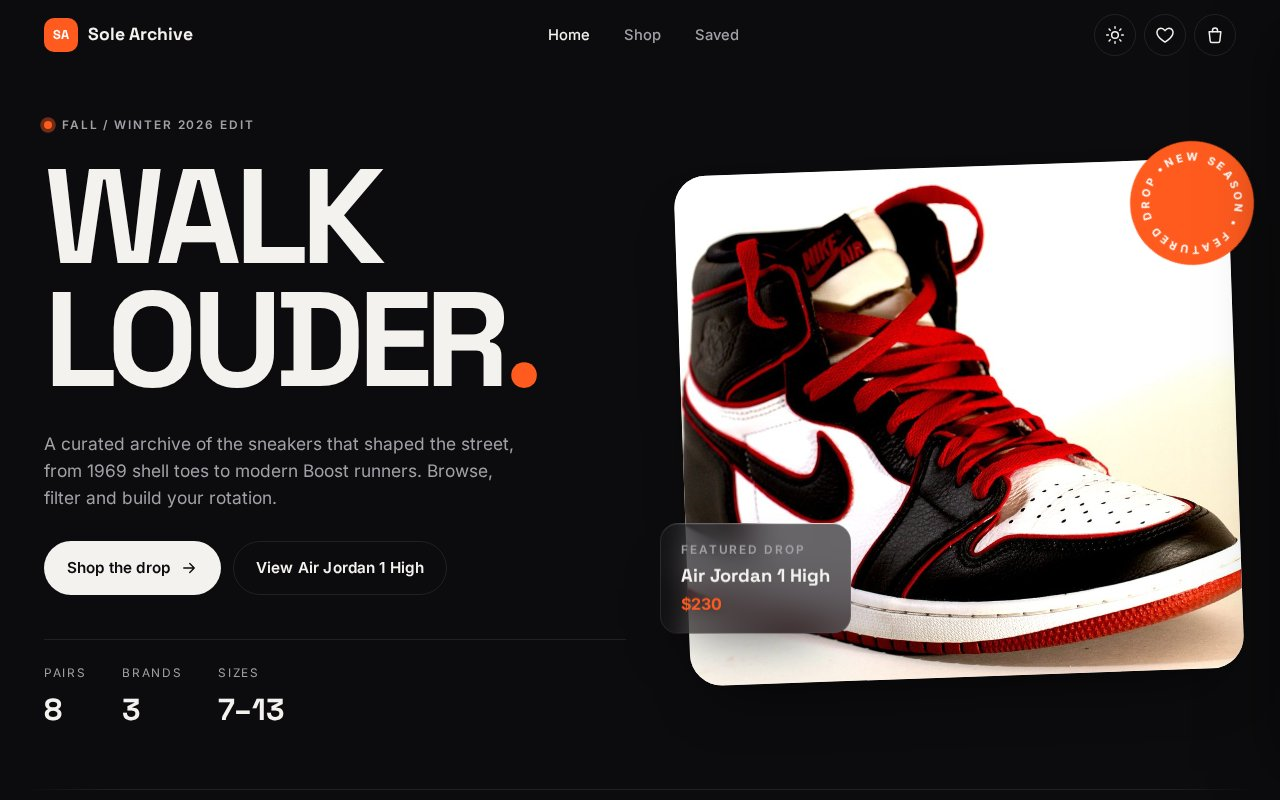
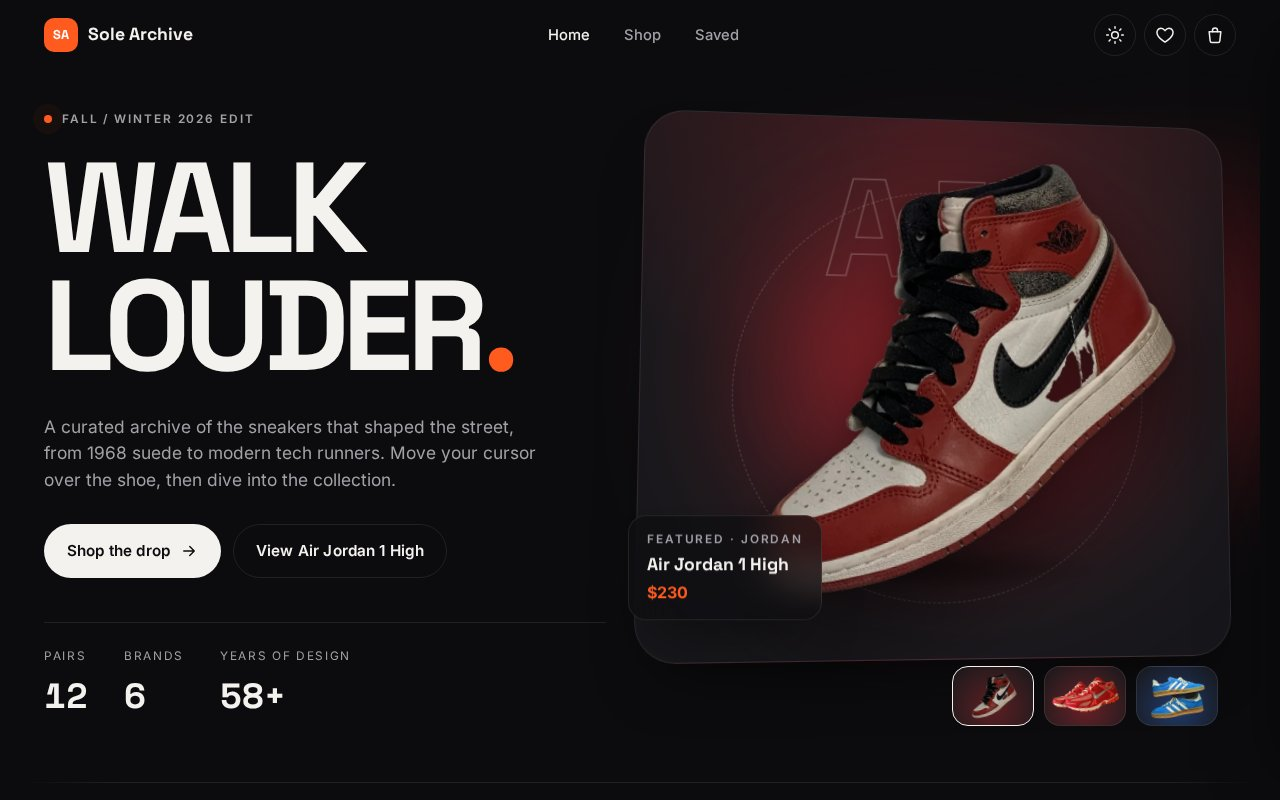
update readme and preview

diff --git a/README.md b/README.md
@@ -1,6 +1,6 @@
 # Sole Archive · Sneaker Showcase
 
-A sneaker storefront built with React. Browse a curated set of Nike, Jordan and Adidas classics, filter and search the collection, open a product page, pick a size, and keep a bag and a saved list that stay put between visits.
+An interactive sneaker storefront built with React and Framer Motion. The hero shoe tilts in 3D and follows your cursor, cards morph into the product page, filters reflow with animation, and you can drag through featured drops, zoom in with a lens, compare two pairs head to head, and keep a bag and saved list between visits.
 
 **Live demo:** https://rajveerrsingh.github.io/sneaker-showcase/
 
@@ -8,25 +8,29 @@ A sneaker storefront built with React. Browse a curated set of Nike, Jordan and 
 
 ---
 
-## Features
+## Highlights
 
-- **Editorial landing page** with large type, a featured drop and a scrolling ticker of every pair
-- **Shop the collection**: brand filter chips, live search by name or colourway, and sorting by price, name or year
-- **Product pages** with a hover zoom image, colourway swatches, a size picker (sold-out sizes disabled), photo credit, previous / next links and related sneakers
-- **Bag and favourites** in a slide-out drawer, with quantities and a subtotal, saved to `localStorage`
-- **Dark and light themes** that follow your system setting and remember your choice
-- **Smooth motion**: page transitions, scroll reveals, card hover lift and image zoom (turned off for users who prefer reduced motion)
-- **Empty states** for no search results, an empty bag, no saved pairs and unknown pages
-- **Responsive and accessible**: works from 360px phones up, keyboard friendly, skip link, visible focus rings, alt text on every image, ARIA labels on icon buttons, and focus kept inside the drawer while it is open
+- **3D tilt hero**: the featured shoe, its colour glow and the outlined model name move at different depths as you move the cursor. It rotates through three featured pairs, and you can pick one from the thumbnails.
+- **Shared element transitions**: the shoe on a product card animates into place on the product page
+- **Animated filtering**: brand chips with a sliding pill, live search and sorting, and the grid reflows smoothly (Framer Motion `layout` + `AnimatePresence`)
+- **Draggable featured rail** with arrow buttons and keyboard support
+- **Next drop countdown**: a live demo timer to the next Saturday 10:00 release
+- **Product page**: a hover zoom lens, studio cut-out or original photo views, an animated size picker, colourway swatches, photo credit, previous/next links and related pairs
+- **Compare mode**: pick any two pairs and open a head to head modal with price, year, colourway and stock
+- **Bag and favourites** in a slide-out drawer, saved to `localStorage`, with animated toasts
+- **Little touches**: magnetic buttons, count-up stats, colour-matched glows behind every shoe, skeleton shimmer while images load, scroll reveals
+- **Dark and light themes** that follow your system and remember your choice
+- **Accessible**: keyboard friendly, skip link, focus rings, alt text, ARIA labels, focus kept in dialogs, and all motion respects `prefers-reduced-motion`
+- **Responsive** from small phones up
 
 Prices and stock are demo data. Nothing is for sale.
 
 ## Tech stack
 
-- **React 19** with hooks and Context for the bag, favourites and theme
+- **React 19** with hooks and Context (bag, favourites, compare, theme)
+- **Framer Motion 11** for layout animations, shared transitions, springs and gestures
 - **React Router 7** (`HashRouter`, so deep links work on GitHub Pages)
-- **Plain CSS** with custom properties for theming, no UI framework
-- **IntersectionObserver** for scroll reveal animations
+- **Plain CSS** with custom properties and `color-mix()` for theming, no UI framework
 - **Google Fonts**: Space Grotesk and Inter
 - **GitHub Pages** for hosting
 
@@ -34,12 +38,12 @@ Prices and stock are demo data. Nothing is for sale.
 
 ```
 src/
-  components/   Navbar, Footer, Drawer, Toast, SneakerCard, SneakerImage, Icons
+  components/   Hero, Carousel, Countdown, Compare, SneakerCard, SneakerImage,
+                Magnetic, Counter, Reveal, Navbar, Footer, Drawer, Toast, Icons
   pages/        Home, Detail, Saved, NotFound
-  hooks/        useReveal (scroll animations)
   data/         sneakers.js (demo catalogue)
-  store.js      bag, favourites and theme state (persisted)
-public/images/  all product photos, served locally
+  store.js      bag, favourites, compare and theme state
+public/images/  studio cut-outs (.webp) and original photos (photo/*.jpg)
 ```
 
 ## Run it locally
@@ -63,14 +67,24 @@ Then push the contents of the `build` folder to the `gh-pages` branch.
 
 ## Image credits
 
-Photos from Wikimedia Commons, resized for the web:
+All photos come from Wikimedia Commons. The studio views are the same photos with the background removed and resized.
 
-- Nike Blazer Mid: Corvettec6r, CC0
-- Adidas Superstar: Yahoo! Blog, CC BY 2.0
-- Air Jordan 1 High: [Mathieu Landretti](https://commons.wikimedia.org/wiki/File:Nike_Air_Jordan.jpg), CC BY-SA 4.0
-- Air Jordan 4 Retro: [Jacek Halicki](https://commons.wikimedia.org/wiki/File:2023_Buty_Nike_Air_Jordan.jpg), CC BY-SA 4.0
-- Adidas NMD_R1: [LeDroider](https://commons.wikimedia.org/wiki/File:Adidas_NMD_R1.jpg), CC0
-- Nike Dunk Low: [William Mucci](https://commons.wikimedia.org/wiki/File:Nike_dunk_low.jpg), CC0
+| Sneaker | Photographer | Licence | Source |
+| --- | --- | --- | --- |
+| Air Jordan 1 High | Osyffar | CC0 | [Nike_Air_Jordan_I.jpg](https://commons.wikimedia.org/wiki/File:Nike_Air_Jordan_I.jpg) |
+| Air Jordan 4 Retro | Osyffar | CC0 | [Nike_Air_Jordan_IV.jpg](https://commons.wikimedia.org/wiki/File:Nike_Air_Jordan_IV.jpg) |
+| New Balance 1906R | LeDroider | CC0 | [New_Balance_1906R.jpg](https://commons.wikimedia.org/wiki/File:New_Balance_1906R.jpg) |
+| New Balance 550 | LeDroider | CC0 | [New_Balance_550.jpg](https://commons.wikimedia.org/wiki/File:New_Balance_550.jpg) |
+| Nike Dunk Low | LeDroider | CC0 | [Panda_Nike_Dunk.jpg](https://commons.wikimedia.org/wiki/File:Panda_Nike_Dunk.jpg) |
+| Nike Zoom Vomero 5 | LeDroider | CC0 | [Vomero_5.jpg](https://commons.wikimedia.org/wiki/File:Vomero_5.jpg) |
+| Nike Cortez | LeDroider | CC0 | [Nike_Cortez.jpg](https://commons.wikimedia.org/wiki/File:Nike_Cortez.jpg) |
+| Nike Air Max 90 | Mfagoaguna1 | CC BY-SA 4.0 | [Nike_Air_Max_90.jpg](https://commons.wikimedia.org/wiki/File:Nike_Air_Max_90.jpg) |
+| Adidas Gazelle Indoor | LeDroider | CC0 | [Adidas_Gazelle_Indoor.jpg](https://commons.wikimedia.org/wiki/File:Adidas_Gazelle_Indoor.jpg) |
+| Adidas SL 72 OG | LeDroider | CC0 | [Adidas_SL_72_OG.jpg](https://commons.wikimedia.org/wiki/File:Adidas_SL_72_OG.jpg) |
+| Asics Gel-1130 | LeDroider | CC0 | [Asics_Gel-1130.jpg](https://commons.wikimedia.org/wiki/File:Asics_Gel-1130.jpg) |
+| Puma Suede Classic | LeDroider | CC0 | [Puma_Suede.jpg](https://commons.wikimedia.org/wiki/File:Puma_Suede.jpg) |
+
+The edited Air Max 90 images are shared under the same CC BY-SA 4.0 licence.
 
 ---
 
